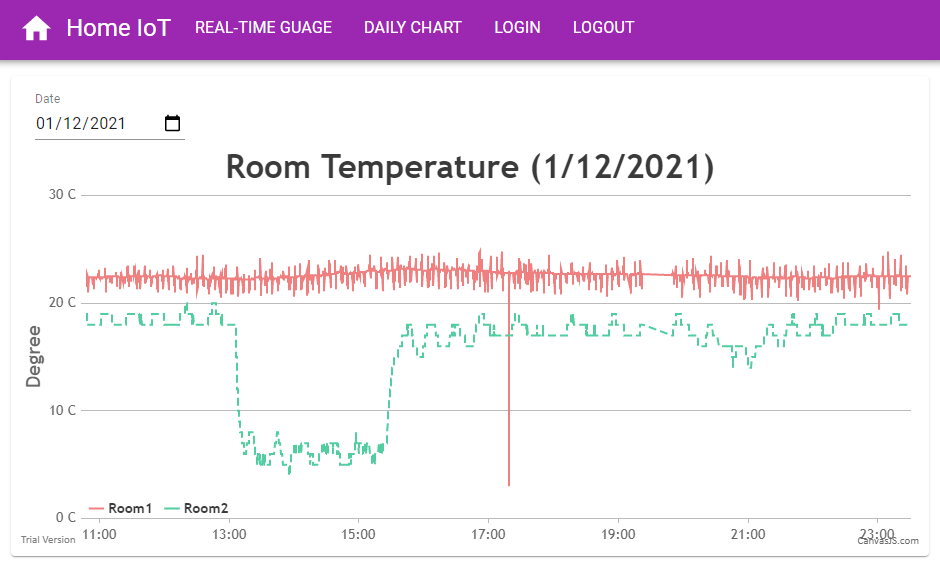
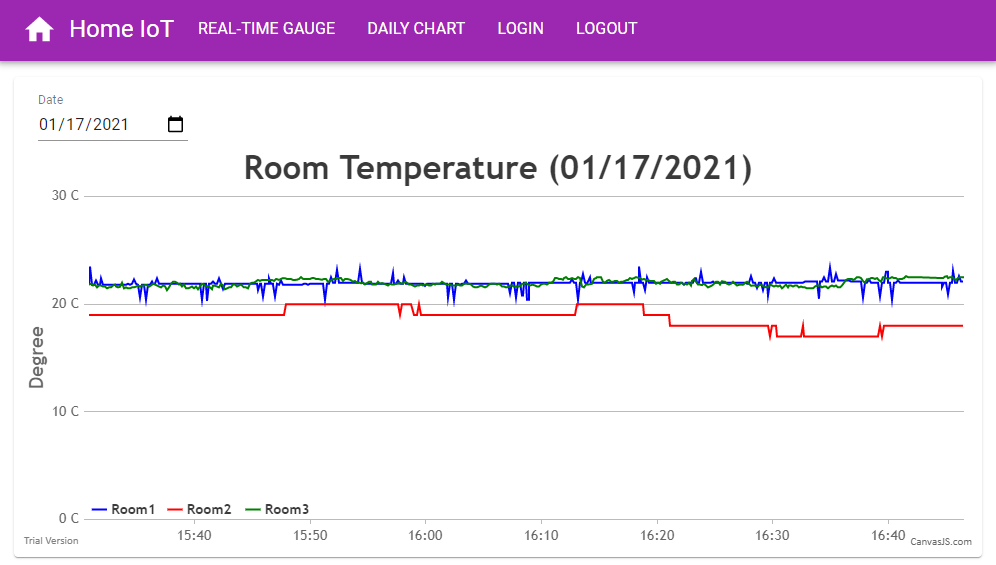
change number of room: 2 -> 3 (variable) fix ui for mobile

diff --git a/client/src/routes/Gauge.js b/client/src/routes/Gauge.js
@@ -6,6 +6,7 @@ import 'fontsource-roboto';
 import Typography from '@material-ui/core/Typography';
 import Paper from '@material-ui/core/Paper';
 import Switch from '@material-ui/core/Switch';
+import Box from '@material-ui/core/Box';
 import * as DotEnv from './DotEnv';
 
 const styles = theme => ({
@@ -17,9 +18,10 @@ const styles = theme => ({
     guageRow: {
         margin: 8,
         display: 'flex',
+        flexWrap: "wrap",
         flexDirection: 'row',
         justifyContent: 'center',
-        alignItems: 'center',
+        alignItems: 'flex-start',
     },
     guageCol: {
         margin: 2,
@@ -89,58 +91,66 @@ class Guage extends React.Component {
                 {isLoading ? (
                     <p>Loading...</p>
                 ) : (
-                    <div className={classes.guageRow}>
+                    <Box className={classes.guageRow}>
                     {roomData.map((data, i) => (
-                        <div key={i} className={classes.guageCol}>
-                        <Typography variant="h5" component="h5">
-                            Room{i+1}
-                        </Typography>
-                        <Typography variant="h6" component="h6">
-                            LED
-                        </Typography>
-                        <Switch id={'led'+i+1} value={data.ledState} checked={data.ledState==='1'} onChange={(e) => this.onChangeLed(e)} />
-                        <Typography variant="h6" component="h6">
-                            Temperature
-                        </Typography>
-                        <GaugeChart id='gauge-chart-5'
-                            nrOfLevels={420}
-                            arcsLength={[0.3, 0.5, 0.2]}
-                            colors={['#5BE12C', '#F5CD19', '#EA4228']}
-                            percent={data.temperature / 40}
-                            arcPadding={0.02}
-                            formatTextValue={value => (value / 100 * 40).toFixed(2)}
-                            textColor='#FF0000'     
-                            needleColor='#A9A9A9'                       
-                        />
-                        <Typography variant="h6" component="h6">
-                            Humidity
-                        </Typography>
-                        <GaugeChart id='gauge-chart-5'
-                            nrOfLevels={420}
-                            arcsLength={[0.3, 0.5, 0.2]}
-                            colors={['#5BE12C', '#F5CD19', '#EA4228']}
-                            percent={data.humidity / 100}
-                            arcPadding={0.02}
-                            formatTextValue={value => value}
-                            textColor='#FF0000'     
-                            needleColor='#A9A9A9'                       
-                        />
-                        <Typography variant="h6" component="h6">
-                            Brightness
-                        </Typography>
-                        <GaugeChart id='gauge-chart-5'
-                            nrOfLevels={420}
-                            arcsLength={[0.3, 0.5, 0.2]}
-                            colors={['#5BE12C', '#F5CD19', '#EA4228']}
-                            percent={(1024 - data.brightness) / 1024}
-                            arcPadding={0.02}
-                            formatTextValue={value => (value / 100 * 1024).toFixed(0)}
-                            textColor='#FF0000'     
-                            needleColor='#A9A9A9'                       
-                        />
-                        </div>
+                        <Box key={i} className={classes.guageCol}>
+                            <Typography variant="h5" component="h5">
+                                Room{i+1}
+                            </Typography>
+                            {data.ledState === "" ? (<div></div>) : (<div className={classes.guageCol}>
+                                <Typography variant="h6" component="h6">
+                                    LED
+                                </Typography>
+                                <Switch id={'led'+i+1} value={data.ledState} checked={data.ledState==='1'} onChange={(e) => this.onChangeLed(e)} />
+                            </div>)}
+                            {data.temperature === "" ? (<div></div>) : (<div className={classes.guageCol}>
+                                <Typography variant="h6" component="h6">
+                                    Temperature
+                                </Typography>
+                                <GaugeChart id='gauge-chart-5'
+                                    nrOfLevels={420}
+                                    arcsLength={[0.3, 0.5, 0.2]}
+                                    colors={['#5BE12C', '#F5CD19', '#EA4228']}
+                                    percent={data.temperature / 40}
+                                    arcPadding={0.02}
+                                    formatTextValue={value => (value / 100 * 40).toFixed(2)}
+                                    textColor='#FF0000'     
+                                    needleColor='#A9A9A9'                       
+                                />
+                            </div>)}
+                            {data.humidity === "" ? (<div></div>) : (<div className={classes.guageCol}>
+                                <Typography variant="h6" component="h6">
+                                    Humidity
+                                </Typography>
+                                <GaugeChart id='gauge-chart-5'
+                                    nrOfLevels={420}
+                                    arcsLength={[0.3, 0.5, 0.2]}
+                                    colors={['#5BE12C', '#F5CD19', '#EA4228']}
+                                    percent={data.humidity / 100}
+                                    arcPadding={0.02}
+                                    formatTextValue={value => value}
+                                    textColor='#FF0000'     
+                                    needleColor='#A9A9A9'                       
+                                />
+                            </div>)}
+                            {data.brightness === "" ? (<div></div>) : (<div className={classes.guageCol}>
+                                <Typography variant="h6" component="h6">
+                                    Brightness
+                                </Typography>
+                                <GaugeChart id='gauge-chart-5'
+                                    nrOfLevels={420}
+                                    arcsLength={[0.3, 0.5, 0.2]}
+                                    colors={['#5BE12C', '#F5CD19', '#EA4228']}
+                                    percent={(1024 - data.brightness) / 1024}
+                                    arcPadding={0.02}
+                                    formatTextValue={value => (value / 100 * 1024).toFixed(0)}
+                                    textColor='#FF0000'     
+                                    needleColor='#A9A9A9'                       
+                                />
+                            </div>)}
+                        </Box>
                     ))}
-                    </div>
+                    </Box>
                 )}
             </Paper>
         );

diff --git a/client/src/components/LineChart.js b/client/src/components/LineChart.js
@@ -16,28 +16,40 @@ class LineChart extends React.Component {
 
     render() {
         var tempDataPoints = [];
-        tempDataPoints[0] = [];
-        tempDataPoints[1] = [];
         var splits;
 
-        // UTC -> Local Time
-        for (var tempMsg of this.props.tempMsgs) {
-            splits = tempMsg.topic.split('/');
-            if (splits[1] === 'room1') {
-                tempDataPoints[0].push({
-                    x: new Date(tempMsg.date),
-                    y: parseFloat(tempMsg.value)
-                });
-            } else if (splits[1] === 'room2') {
-                tempDataPoints[1].push({
-                    x: new Date(tempMsg.date),
-                    y: parseFloat(tempMsg.value)
-                });
+        for (let i = 0; i < this.props.maxRoomNum; i++) {
+            tempDataPoints[i] = [];
+            // UTC -> Local Time
+            for (var tempMsg of this.props.tempMsgs) {
+                splits = tempMsg.topic.split('/');
+                if (splits[1] === `room${i+1}`) {
+                    tempDataPoints[i].push({
+                        x: new Date(tempMsg.date),
+                        y: parseFloat(tempMsg.value)
+                    });
+                }
             }
         }
 
         var dateStrs = this.props.dateStr.split('-');
 
+        var dataPtrs = [];
+        const colorTable = ['blue', 'red', 'green', 'black', 'orange'];
+        for (let i = 0; i < this.props.maxRoomNum; i++) {
+            dataPtrs.push({
+                type: "line",
+                showInLegend: true,
+                name: `Room${i+1}`,
+                markerType: "square",
+                xValueFormatString: "HH:mm",
+                color: colorTable[i],
+                //lineDashType: "dash",
+                yValueFormatString: "#,##0",
+                dataPoints: tempDataPoints[i]
+            });
+        }
+        
 		const options = {
 			animationEnabled: true,
 			theme: "light2", // "light1", "dark1", "dark2"
@@ -62,24 +74,7 @@ class LineChart extends React.Component {
                 dockInsidePlotArea: true,
                 itemclick: this.toogleDataSeries
             },
-            data: [{
-                type: "line",
-                showInLegend: true,
-                name: "Room1",
-                markerType: "square",
-                xValueFormatString: "HH:mm",
-                color: "#F08080",
-                yValueFormatString: "#,##0",
-                dataPoints: tempDataPoints[0]
-            },
-            {
-                type: "line",
-                showInLegend: true,
-                name: "Room2",
-                lineDashType: "dash",
-                yValueFormatString: "#,##0",
-                dataPoints: tempDataPoints[1]
-            }]
+            data: dataPtrs
 		}
 		return (
 		<div>

diff --git a/client/src/components/Navigation.js b/client/src/components/Navigation.js
@@ -11,14 +11,15 @@ import { Home } from "@material-ui/icons"
 
 const styles = theme => ({
   navDisplayFlex: {
-    display: `flex`,
-    justifyContent: `space-between`,
+    display: 'flex',
+    flexWrap: 'wrap',
+    justifyContent: 'space-between',
     padding: 8
   },
   linkText: {
-    textDecoration: `none`,
-    textTransform: `uppercase`,
-    color: `white`
+    textDecoration: 'none',
+    textTransform: 'uppercase',
+    color: 'white'
   }
 });
 
@@ -43,10 +44,10 @@ class Navigation extends React.Component {
         const { classes } = this.props;
 
         const navLinks = [
-            { title: `Real-Time Gauge`, path: `#gauge` },
-            { title: `Daily Chart`, path: `#chart` },
-            { title: `Login`, path: `#login` },
-            { title: `Logout`, path: `#logout` },
+            { title: 'Real-Time Gauge', path: '#gauge' },
+            { title: 'Daily Chart', path: '#chart' },
+            { title: 'Login', path: '#login' },
+            { title: 'Logout', path: '#logout' },
             ];
 
         return (

diff --git a/client/src/routes/Chart.js b/client/src/routes/Chart.js
@@ -91,12 +91,14 @@ class Chart extends React.Component {
           );
         }
 
+        var maxRoomNum = 3;
+
         if (isLoading) {
             chart = <p>Loading...</p>;
         } else if (tempMsgs.length === 0) {
             chart = <p>No Data</p>;
         } else {
-            chart = <LineChart tempMsgs = {tempMsgs} dateStr = {dateStr}/>;
+            chart = <LineChart maxRoomNum = {maxRoomNum} tempMsgs = {tempMsgs} dateStr = {dateStr}/>;
         }
 
         return (

diff --git a/server.js b/server.js
@@ -123,7 +123,7 @@ var mqttclient = mqtt.connect(process.env.MQTT_SERVER_URI, options);
 console.log("connected flag  " + mqttclient.connected);
 
 // Initialize mqtt data buffer
-const maxRoomNumber = 2;
+const maxRoomNumber = 3;
 var roomData = [];
 for (var i = 0; i < maxRoomNumber; i++){
     roomData.push({

diff --git a/client/src/routes/Login.js b/client/src/routes/Login.js
@@ -14,7 +14,7 @@ const styles = theme => ({
         padding: theme.spacing(1),
     },
     login: {
-        width: 500,
+        width: 250,
         padding: theme.spacing(1),
     },
 });
